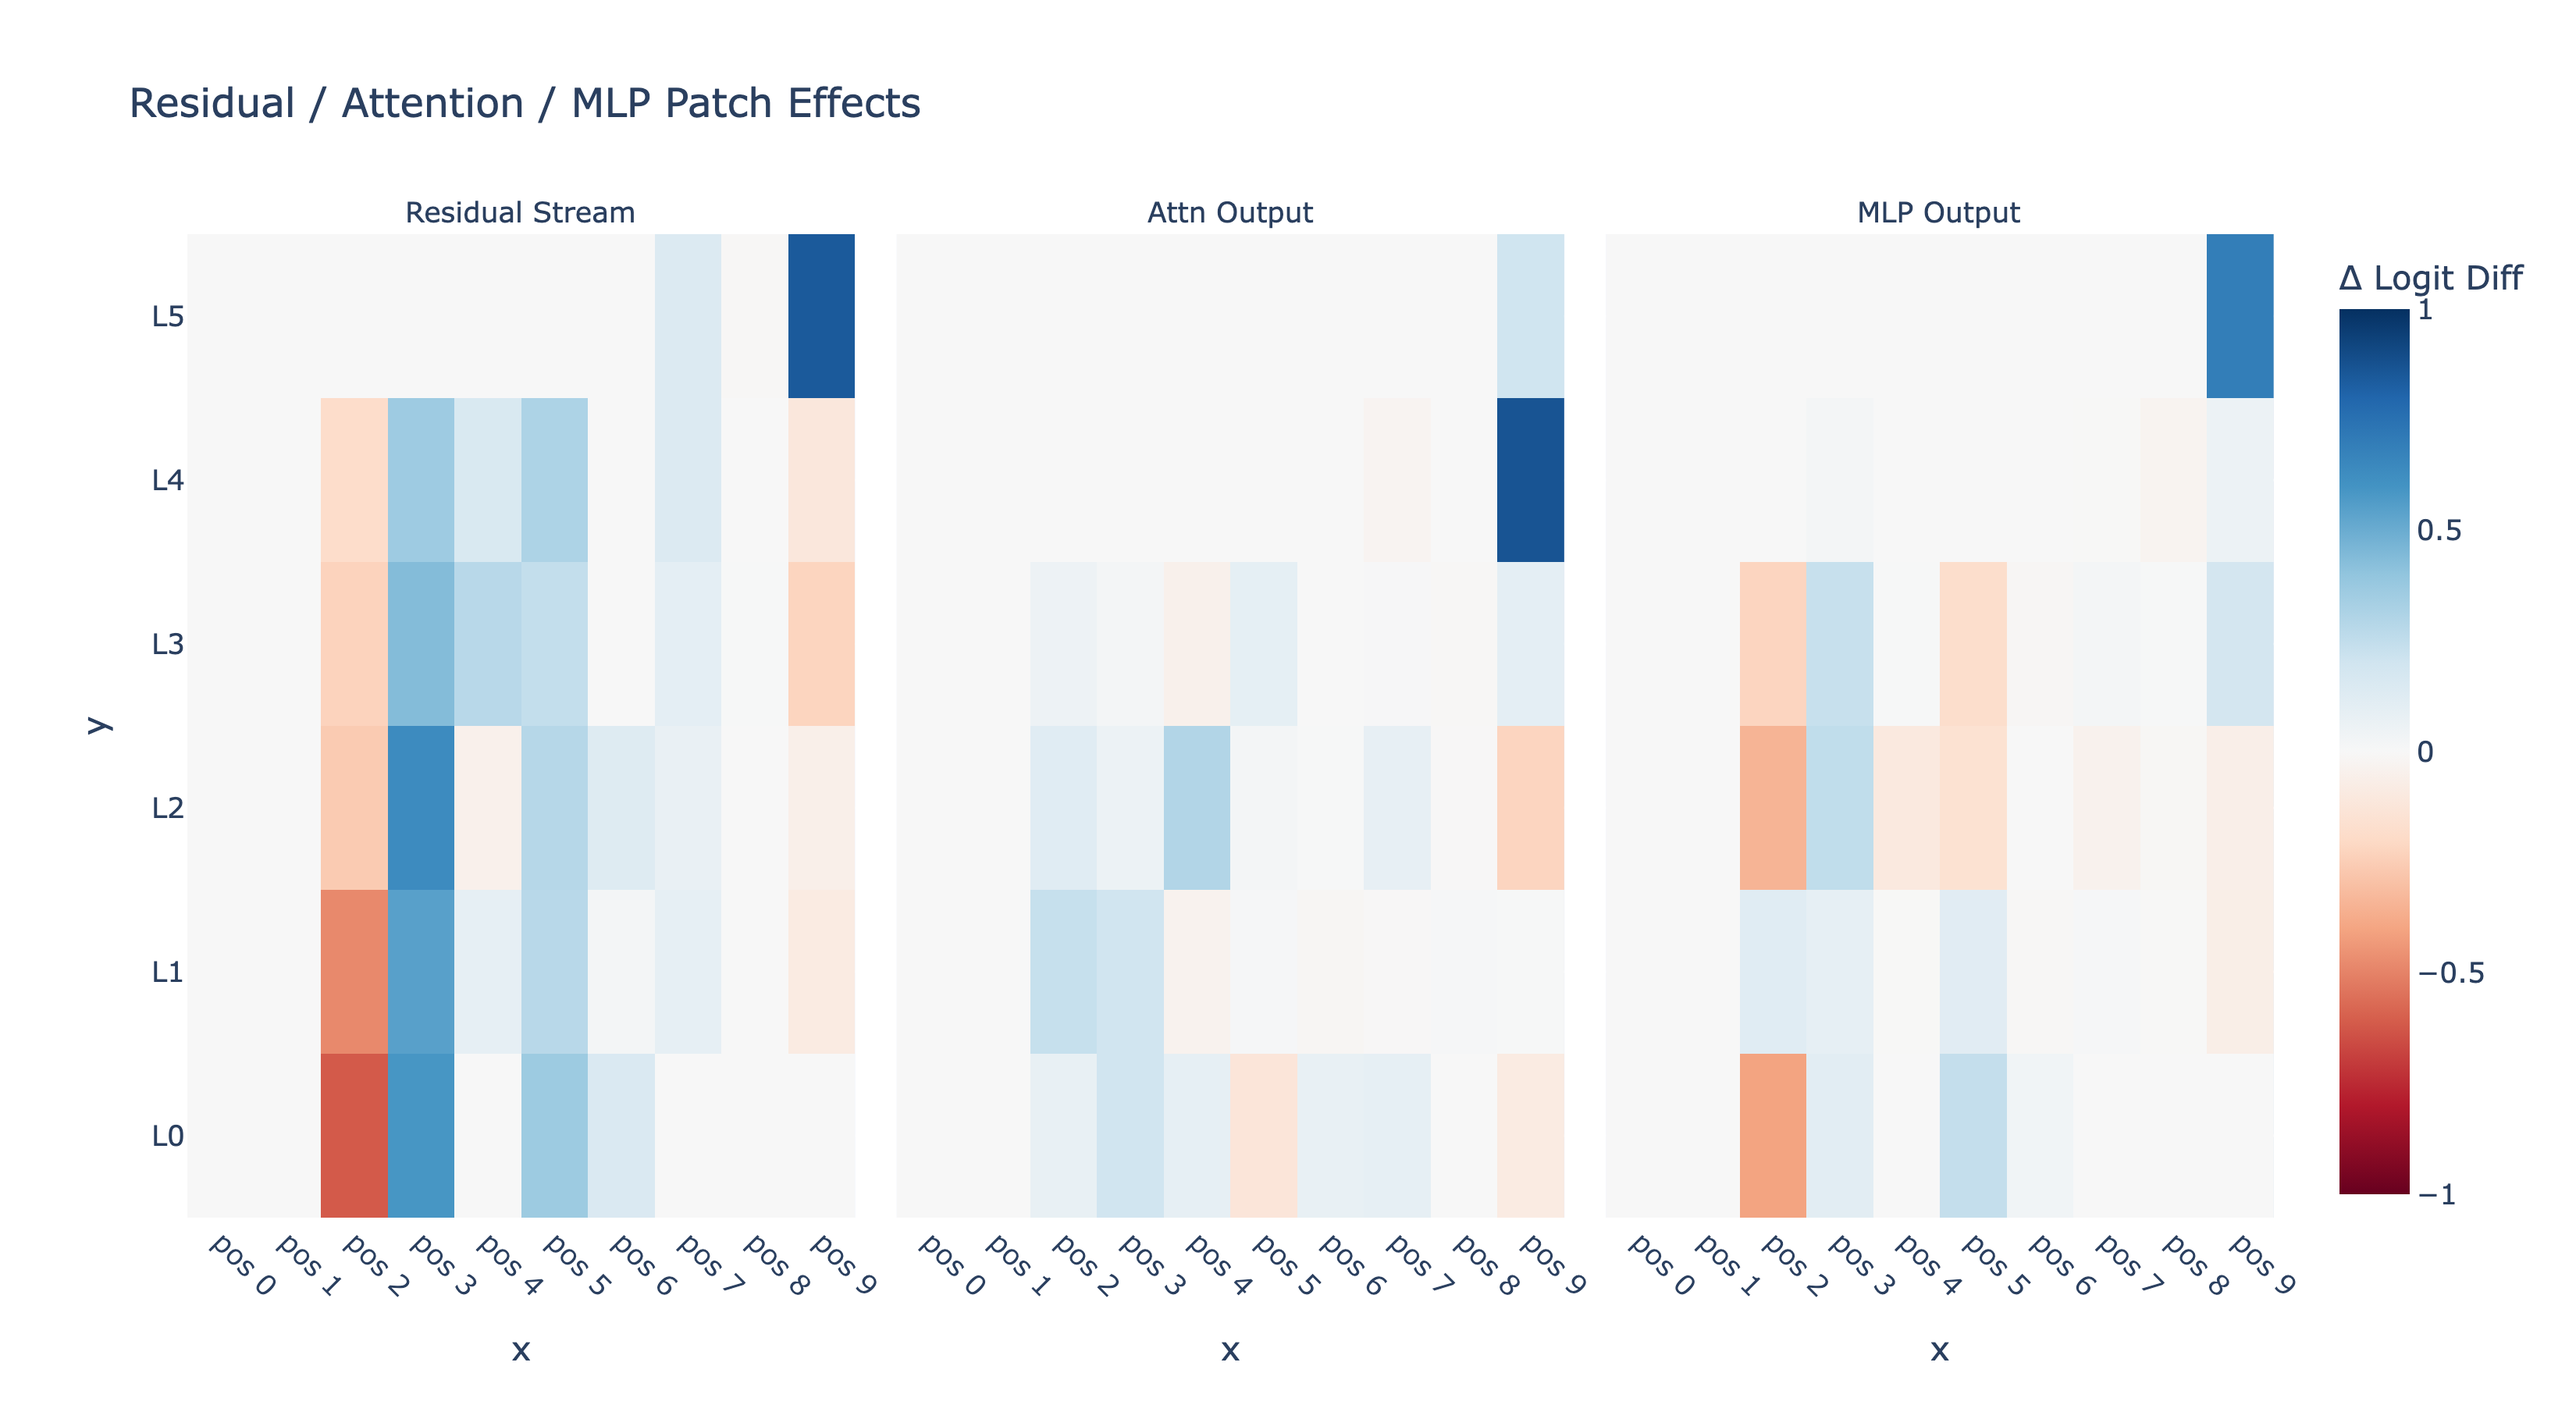
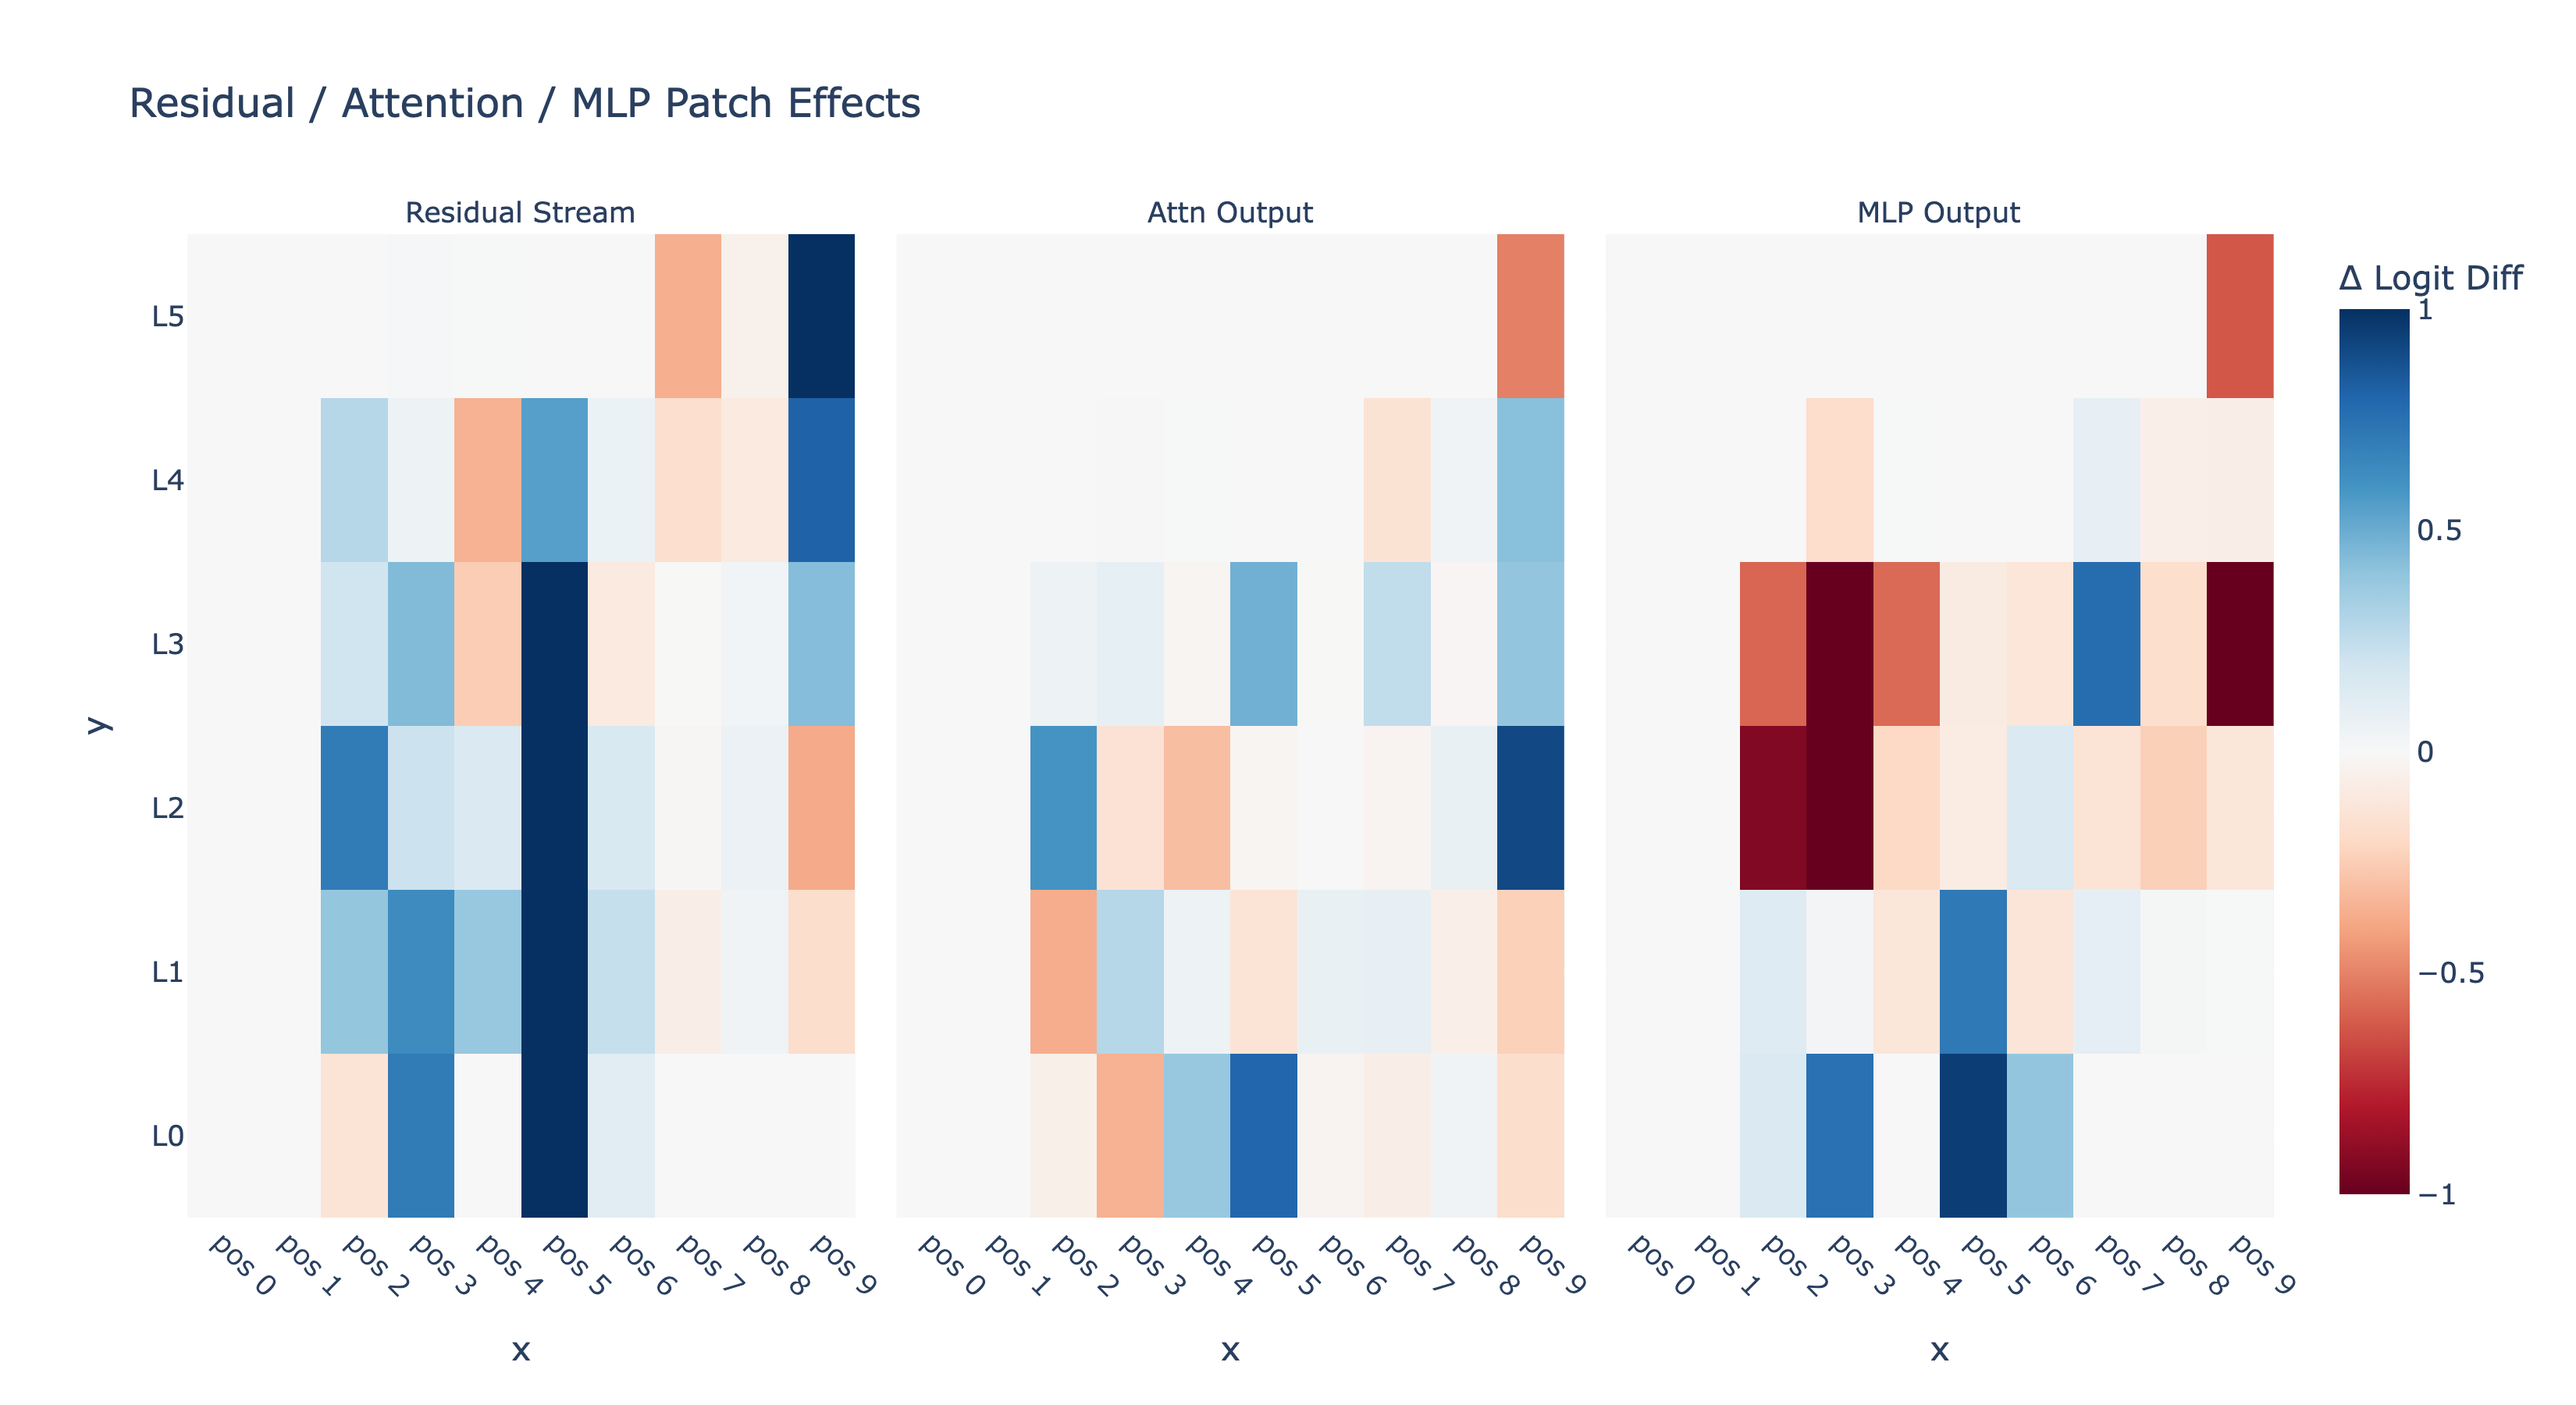
Modified activation patching code

diff --git a/src/Interpretability/Functions.py b/src/Interpretability/Functions.py
@@ -946,7 +946,7 @@ def build_dataset(n=2000, seed=42, low=1, high=100000):
     data = []
     for _ in range(n):
         a = int(rng.integers(low, high))
-        b = int(rng.integers(low, high))
+        b = int(rng.integers(low, a))
         clean = make_prompt(a, b)
         corrupt = make_prompt(b, a)
         label = int(a > b)
@@ -1197,12 +1197,13 @@ def paper_plot(fig, tickangle=60):
 
 def compute_act_patching(model: HookedTransformer,
                          metric: callable,
+                         yes_id: int,
+                         no_id: int,
                          CLEAN_BASELINE: float,
                          CORRUPTED_BASELINE: float,
                          patching_type: str,
                          batches_base_tokens: list,
                          batches_src_tokens: list,
-                         batches_answer_token_indices: list,
                          batches: int):
     # resid_streams
     # heads_all_pos : attn heads all positions at the same time
@@ -1214,9 +1215,8 @@ def compute_act_patching(model: HookedTransformer,
         src_tokens = batches_src_tokens[batch]
         base_logits, base_cache = model.run_with_cache(base_tokens)
         src_logits, _ = model.run_with_cache(src_tokens)
-        answer_token_indices = batches_answer_token_indices[batch]
         
-        metric_fn = partial(metric, answer_token_indices=answer_token_indices, CLEAN_BASELINE=CLEAN_BASELINE, CORRUPTED_BASELINE=CORRUPTED_BASELINE)
+        metric_fn = partial(metric, yes_id=yes_id, no_id=no_id, CLEAN_BASELINE=CLEAN_BASELINE, CORRUPTED_BASELINE=CORRUPTED_BASELINE)
         if patching_type=='resid_streams':
             # resid_pre_act_patch_results -> [n_layers, pos]
             patch_results = patching.get_act_patch_resid_pre(model, src_tokens, base_cache, metric_fn)
@@ -1244,10 +1244,8 @@ def build_numeric_batches(model, dataset, yes_id, no_id, device, batch_size=32):
         base_toks.append(model.to_tokens(clean, prepend_bos=True))
         src_toks.append(model.to_tokens(corrupt, prepend_bos=True))
         
-        correct = yes_id if label == 1 else no_id
-        incorrect = no_id if label == 1 else yes_id
-        correct_ids.append(correct)
-        wrong_ids.append(incorrect)
+        correct_ids.append(yes_id)
+        wrong_ids.append(no_id)
 
     max_len = max(seq.shape[-1] for seq in base_toks + src_toks)
 
@@ -1280,22 +1278,48 @@ def build_numeric_batches(model, dataset, yes_id, no_id, device, batch_size=32):
 
     return batches_base, batches_src, batches_ans
 
-def compute_baselines(model, batches_base, batches_src, batches_ans):
+def compute_baselines(model, batches_base, batches_src, yes_id, no_id):
+    """
+    Compute baseline logit diff values:
+    - Clean baseline: model confidence for Yes on clean prompts.
+    - Corrupt baseline: model confidence for Yes on corrupt prompts.
+    """
+
     base_diffs, src_diffs = [], []
-    for bb, sb, ans in zip(batches_base, batches_src, batches_ans):
+
+    for bb, sb in zip(batches_base, batches_src):
         base_logits = model(bb)
         src_logits = model(sb)
-        base_diffs.append(get_logit_diff(base_logits, ans, mean=False))
-        src_diffs.append(get_logit_diff(src_logits, ans, mean=False))
+
+        # Extract logits for Yes and No at the last position
+        base_yes = base_logits[:, -1, yes_id]
+        base_no  = base_logits[:, -1, no_id]
+        src_yes  = src_logits[:, -1, yes_id]
+        src_no   = src_logits[:, -1, no_id]
+
+        # Logit difference: Yes - No
+        base_diffs.append(base_yes - base_no)
+        src_diffs.append(src_yes - src_no)
 
     CLEAN_BASELINE = t.cat(base_diffs).mean()
     CORRUPTED_BASELINE = t.cat(src_diffs).mean()
     return CLEAN_BASELINE, CORRUPTED_BASELINE
 
-def numeric_metric(logits, answer_token_indices, CLEAN_BASELINE, CORRUPTED_BASELINE):
-    ld = get_logit_diff(logits, answer_token_indices, mean=False)
+def numeric_metric(logits, yes_id, no_id, CLEAN_BASELINE, CORRUPTED_BASELINE):
+    """
+    Normalized metric for activation patching:
+    - 1.0 → full rescue (equal to clean baseline)
+    - 0.0 → no rescue (equal to corrupt baseline)
+    - < 0 → anti-causal (worse than corrupt baseline)
+    """
+
+    yes_logits = logits[:, -1, yes_id]
+    no_logits  = logits[:, -1, no_id]
+    ld = yes_logits - no_logits  # logit diff
+
     normalized = (ld - CORRUPTED_BASELINE) / (CLEAN_BASELINE - CORRUPTED_BASELINE)
     return normalized.mean()
+
 
 def plot_all_patch_effects_paper(model, patch_resid, patch_attn, patch_mlp, patch_heads, output_folder):
     """
@@ -1379,3 +1403,30 @@ def head_mean_ablation_hook_by_pos(
     z[:, pos_to_ablate, head_index_to_ablate, :] = baseline
 
     return z
+
+def save_sorted_head_importance(patch_results, output_path="head_importance.csv"):
+    """
+    Takes patch_results from heads_last_pos activation patching:
+    - patch_results shape: [n_layers, n_heads]
+    - Writes a CSV sorted by importance (logit diff improvement)
+    """
+
+    n_layers, n_heads = patch_results.shape
+    data = []
+
+    # Gather head name + score pairs
+    for layer in range(n_layers):
+        for head in range(n_heads):
+            score = patch_results[layer, head].item()
+            head_name = f"Layer{layer}Head{head}"
+            data.append((head_name, score))
+
+    # Create DataFrame and sort by score descending
+    df = pd.DataFrame(data, columns=["Head", "LogitDiff"])
+    df_sorted = df.sort_values(by="LogitDiff", ascending=False)
+
+    # Save
+    df_sorted.to_csv(output_path, index=False)
+    print(f"Saved head ranking to {output_path}")
+
+    return df_sorted

diff --git a/src/Experiments/Logit/4digit.py b/src/Experiments/Logit/4digit.py
@@ -8,14 +8,16 @@ from tqdm import tqdm
 sys.path.append(os.path.abspath(os.path.join(os.path.dirname(__file__), '../..')))
 
 from utils.model_config import load_model
-from Interpretability import build_dataset, compute_act_patching, get_logit_diff, paper_plot, build_numeric_batches, compute_baselines, numeric_metric, plot_all_patch_effects_paper
+from utils.device_utils import get_device
+from Interpretability import build_dataset, compute_act_patching, get_logit_diff, paper_plot, build_numeric_batches, compute_baselines, numeric_metric, plot_all_patch_effects_paper, save_sorted_head_importance
 from neel_plotly import imshow
 import transformer_lens.utils as utils
 
 dataset = build_dataset(n=10, low=1000, high=9999)
 
-model_name = "pythia-160m"
+model_name = "pythia-70m"
 model = load_model(model_name)
+device = get_device()
 
 yes_id = model.to_single_token(" Yes")
 no_id = model.to_single_token(" No")
@@ -25,22 +27,22 @@ num_batches = len(batches_src)
 print(f"Batched into {num_batches} batches")
 
 CLEAN_BASELINE, CORRUPTED_BASELINE = compute_baselines(
-    model, batches_base, batches_src, batches_ans
+    model, batches_base, batches_src, yes_id, no_id
 )
 print("Baselines computed: ")
 print("Clean:", CLEAN_BASELINE.item(), "Corrupted:", CORRUPTED_BASELINE.item())
 
 patch_resid = compute_act_patching(
-    model, numeric_metric, CLEAN_BASELINE, CORRUPTED_BASELINE, "resid_streams",
-    batches_base, batches_src, batches_ans, num_batches
+    model, numeric_metric, yes_id, no_id, CLEAN_BASELINE, CORRUPTED_BASELINE, "resid_streams",
+    batches_base, batches_src, num_batches
 )
 patch_heads = compute_act_patching(
-    model, numeric_metric, CLEAN_BASELINE, CORRUPTED_BASELINE, "heads_last_pos",
-    batches_base, batches_src, batches_ans, num_batches
+    model, numeric_metric, yes_id, no_id, CLEAN_BASELINE, CORRUPTED_BASELINE, "heads_last_pos",
+    batches_base, batches_src, num_batches
 )
 patch_full = compute_act_patching(
-    model, numeric_metric, CLEAN_BASELINE, CORRUPTED_BASELINE, "full",
-    batches_base, batches_src, batches_ans, num_batches
+    model, numeric_metric, yes_id, no_id, CLEAN_BASELINE, CORRUPTED_BASELINE, "full",
+    batches_base, batches_src, num_batches
 )
 
 patch_attn = patch_full[1]
@@ -54,7 +56,9 @@ display_folder = os.path.join(results_folder, "Digit_Experiment")
 digit_folder = os.path.join(display_folder, "4digit")
 output_folder = os.path.join(digit_folder, f"{model_name}")
 os.makedirs(output_folder, exist_ok=True)
-out_path = os.path.join(output_folder, "numeric_full_patch.png")
+csv_path = os.path.join(output_folder, "head_importance.csv")
+
+save_sorted_head_importance(patch_heads, csv_path)
 plot_all_patch_effects_paper(
     model,
     patch_resid,

diff --git a/src/Experiments/path_patching/greater_than_dataset.py b/src/Experiments/path_patching/greater_than_dataset.py
@@ -1,0 +1,39 @@
+import torch as t
+
+class GreaterThanDataset:
+    def __init__(self, model, prompts, labels, device):
+        self.toks = model.to_tokens(prompts, prepend_bos=True).to(device)
+
+        self.word_idx = {"end": self.toks.size(1) - 1}
+
+        answers = [("Yes", "No") if label == "Yes" else ("No", "Yes") for label in labels]
+        answer_tokens = t.concat([
+            model.to_tokens(pair, prepend_bos=False).T for pair in answers
+        ])
+
+        self.io_tokenIDs = answer_tokens[:, 0]
+        self.s_tokenIDs = answer_tokens[:, 1]
+
+        self.answer_tokens = answer_tokens
+
+    def gen_flipped_prompts(self, model: str):
+        """
+        Approximate IOI's abc_dataset: same prompts, but swap which answer is 'correct'.
+        mode string is ignored but kept for API compatibility.
+        """
+        flipped_labels = ["No" if lbl == "Yes" else "Yes" for lbl in labels]
+
+        flipped_answers = [("Yes", "No") if label == "Yes" else ("No", "Yes")
+                           for label in flipped_labels]
+        flipped_answer_tokens = t.concat([
+            model.to_tokens(pair, prepend_bos=False).T for pair in flipped_answers
+        ])
+
+        flipped_dataset = GreaterThanDataset.__new__(GreaterThanDataset)
+        flipped_dataset.toks = self.toks.clone()
+        flipped_dataset.word_idx = self.word_idx.copy()
+        flipped_dataset.io_tokenIDs = flipped_answer_tokens[:, 0]
+        flipped_dataset.s_tokenIDs = flipped_answer_tokens[:, 1]
+        flipped_dataset.answer_tokens = flipped_answer_tokens
+
+        return flipped_dataset

diff --git a/src/Experiments/Logit/run_on_lambda.py b/src/Experiments/Logit/run_on_lambda.py
@@ -67,10 +67,10 @@ def build_remote_setup_command() -> str:
     # Upgrade pip first
     ~/f25_algo/venv/bin/pip install --upgrade pip
 
-    # Install PyTorch CUDA wheels
-    ~/f25_algo/venv/bin/pip install torch torchvision --index-url https://download.pytorch.org/whl/cu121
+    # ✅ Install CUDA builds for GPU
+    ~/f25_algo/venv/bin/pip install torch==2.5.1 torchvision==0.20.1 --index-url https://download.pytorch.org/whl/cu121
 
-    # Install safe subset of your requirements
+    # Core deps
     ~/f25_algo/venv/bin/pip install \
         transformer_lens \
         einops \
@@ -81,8 +81,9 @@ def build_remote_setup_command() -> str:
         circuitsvis \
         plotly
 
-    # Install neel_plotly from GitHub (not PyPI)
+    # neel-plotly from GitHub
     ~/f25_algo/venv/bin/pip install "git+https://github.com/neelnanda-io/neel-plotly.git"
+
 
     echo "▶ Running experiment..."
     {REMOTE_PYTHON} {REMOTE_SCRIPT}

diff --git a/src/Experiments/Ablation Head_Importance.py b/src/Experiments/Ablation Head_Importance.py
@@ -1,0 +1,23 @@
+import sys
+import os
+import pandas as pd
+sys.path.append(os.path.join(os.path.dirname(__file__), '..'))
+from utils import Setup
+
+from utils.model_config import load_model
+from Interpretability import run_model_with_ablation_analysis
+
+model_name = "pythia-160m"
+model = load_model(model_name)
+text = "Which number is greater: 5 or 3?"
+results = run_model_with_ablation_analysis(model, text)
+
+results_folder = "Results"
+output_folder = os.path.join(results_folder, "Ablation_Head_Importance")
+os.makedirs(output_folder, exist_ok=True)
+
+text = text.replace(" ", "_")
+results_df = pd.DataFrame(results["important_heads"], columns=["layer", "head", "importance"])
+output_path = os.path.join(output_folder, f"{results['model_name']}--{text}.csv")
+results_df.to_csv(output_path, index=False)
+print(results_df)

diff --git a/src/Interpretability/__init__.py b/src/Interpretability/__init__.py
@@ -50,7 +50,8 @@ from .Functions import (
     build_numeric_batches,
     compute_baselines,
     numeric_metric,
-    plot_all_patch_effects_paper
+    plot_all_patch_effects_paper,
+    save_sorted_head_importance
 )
 
 # Version information
